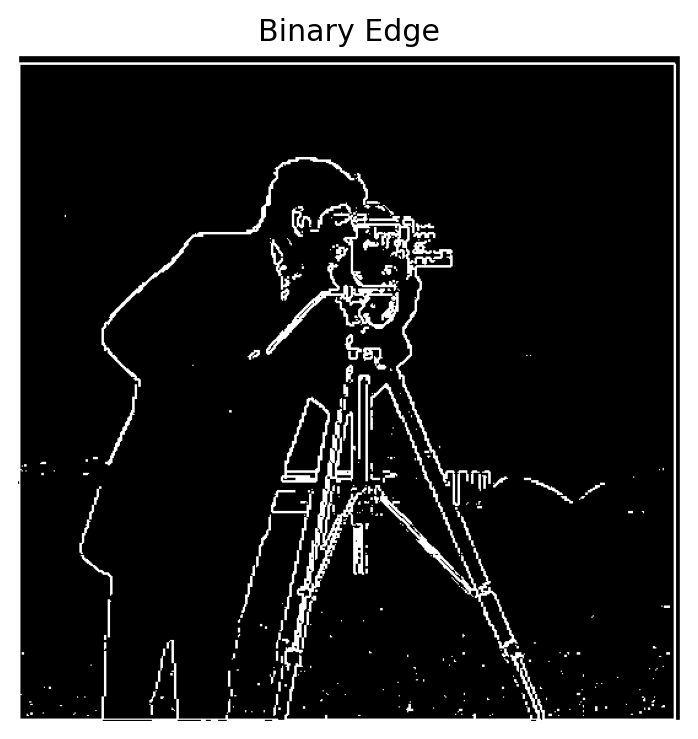
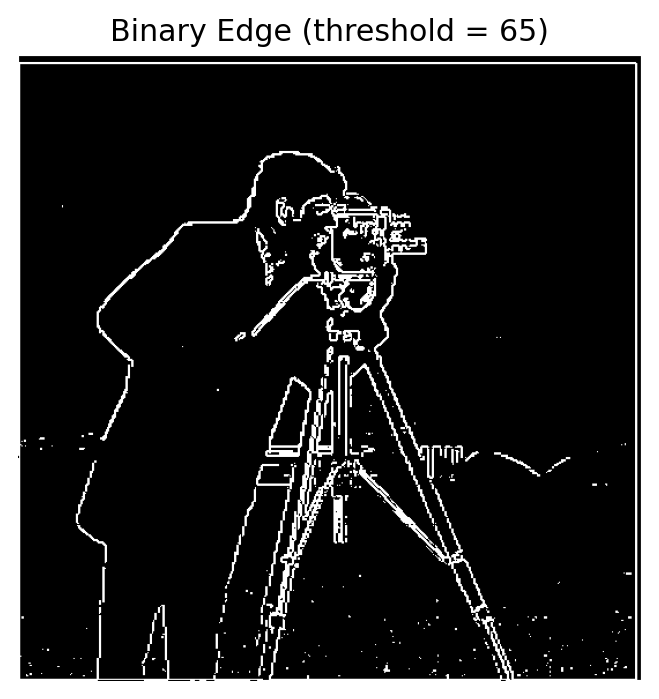
Complete finite difference and DoG writeup

diff --git a/projects/project2/index.html b/projects/project2/index.html
@@ -104,16 +104,49 @@ assert np.allclose(convolve_two_for_loops(image, kernel), reference)</code></pre
           <p>For boundary handling, the image is padded with zeros by half the kernel height and width. This keeps the output the same size as the input and matches <code>convolve2d(..., mode="same", boundary="fill", fillvalue=0)</code>.</p>
         </div>
         <h3>Part 1.2: Finite Difference Results</h3>
+        <div class="writeup-copy">
+          <p>The finite-difference filters <code>D_x</code> and <code>D_y</code> reveal horizontal and vertical intensity changes. I used a gradient-magnitude threshold of <strong>65</strong> for the binary edge image. This keeps the strongest object boundaries while removing much of the low-amplitude texture and noise; a lower threshold found more edges but also produced a noisier result.</p>
+          <pre><code>FINITE_DIFFERENCE_THRESHOLD = 65
+binary_edge = gradient_mag_camera &gt; FINITE_DIFFERENCE_THRESHOLD</code></pre>
+        </div>
         <div class="source-plate-grid">
           <figure><img src="partial_derivative_x.png" alt="Partial derivative in x of the cameraman image"><figcaption>Partial derivative in x</figcaption></figure>
           <figure><img src="partial_derivative_y.png" alt="Partial derivative in y of the cameraman image"><figcaption>Partial derivative in y</figcaption></figure>
           <figure><img src="gradient_magnitude.png" alt="Gradient magnitude of the cameraman image"><figcaption>Gradient magnitude</figcaption></figure>
-          <figure><img src="binary_edges.png" alt="Binarized gradient magnitude edge image"><figcaption>Binary edge image</figcaption></figure>
+          <figure><img src="binary_edges.png" alt="Binarized gradient magnitude edge image using threshold 65"><figcaption>Binary edge image (threshold = 65)</figcaption></figure>
         </div>
-        <h3>Part 1.3: Gaussian Filtering Results</h3>
+        <h3>Part 1.3: Derivative of Gaussian (DoG) Filter</h3>
+        <div class="writeup-copy">
+          <p>The finite-difference results contain noticeable noise, so I first smoothed the cameraman image with a 9 × 9 Gaussian filter created from <code>cv2.getGaussianKernel(9, 2)</code> and its transpose. After smoothing, I recomputed the derivatives and gradient magnitude.</p>
+          <p>For the smoothed gradient image, I used a threshold of <strong>20</strong>. Gaussian smoothing suppresses small variations, so a lower threshold recovers meaningful edges that would be missed by the threshold of 65 used on the noisier finite-difference result.</p>
+        </div>
         <div class="source-plate-grid">
           <figure><img src="gaussian_blurred.png" alt="Gaussian-blurred cameraman image"><figcaption>Gaussian-blurred image</figcaption></figure>
-          <figure><img src="gaussian_binary_edges.png" alt="Binary edge image after Gaussian filtering"><figcaption>Filtered binary edge image</figcaption></figure>
+          <figure><img src="gaussian_gradient_magnitude.png" alt="Gradient magnitude after Gaussian smoothing"><figcaption>Gradient magnitude after smoothing</figcaption></figure>
+          <figure><img src="gaussian_binary_edges.png" alt="Binary edge image after Gaussian smoothing using threshold 20"><figcaption>Smoothed binary edge image (threshold = 20)</figcaption></figure>
+        </div>
+        <div class="writeup-copy">
+          <p>Instead of smoothing and then applying two derivative convolutions, I also formed derivative-of-Gaussian filters by convolving the Gaussian with <code>D_x</code> and <code>D_y</code>. The resulting full-support filters are shown below.</p>
+          <pre><code>G_1d = cv2.getGaussianKernel(9, 2)
+G_2d = G_1d @ G_1d.T
+camera_blurred = convolve_two_for_loops(camera_image, G_2d)
+
+DoG_x = convolve2d(G_2d, Dx, mode="full", boundary="fill", fillvalue=0)
+DoG_y = convolve2d(G_2d, Dy, mode="full", boundary="fill", fillvalue=0)
+dog_dx = convolve_two_for_loops(camera_image, DoG_x)
+dog_dy = convolve_two_for_loops(camera_image, DoG_y)</code></pre>
+        </div>
+        <div class="source-plate-grid">
+          <figure><img src="dog_x_filter.png" alt="Derivative of Gaussian filter in x"><figcaption>DoG filter in x</figcaption></figure>
+          <figure><img src="dog_y_filter.png" alt="Derivative of Gaussian filter in y"><figcaption>DoG filter in y</figcaption></figure>
+        </div>
+        <div class="source-plate-grid">
+          <figure><img src="dog_gradient_magnitude.png" alt="Gradient magnitude from single-convolution DoG responses"><figcaption>DoG gradient magnitude</figcaption></figure>
+          <figure><img src="dog_binary_edges.png" alt="Binarized DoG gradient magnitude using threshold 20"><figcaption>DoG binary edge image (threshold = 20)</figcaption></figure>
+          <figure><img src="dog_verification.png" alt="Comparison of smoothed finite-difference and single-convolution DoG gradient magnitudes"><figcaption>Verification: smoothed gradient, DoG gradient, and their absolute difference</figcaption></figure>
+        </div>
+        <div class="writeup-copy">
+          <p>The Gaussian-smoothed gradient and the single-convolution DoG gradient agree away from the outer zero-padding boundary. The remaining differences are concentrated at the border because the two-step and one-step versions encounter the image boundary differently. In the interior, the DoG filters reproduce the same edge structure while requiring only one convolution per derivative direction.</p>
         </div>
       </section>
 

diff --git a/projects/project2/convolutions.py b/projects/project2/convolutions.py
@@ -11,16 +11,31 @@ import matplotlib.pyplot as plt
 from scipy.signal import convolve2d
 from PIL import Image
 import cv2
+from pathlib import Path
+
+PROJECT_DIR = Path(__file__).resolve().parent
 image = np.array(
     Image.open(
-        "/Users/revivedbonsai63/Desktop/CS 180/CS180_Website/projects/project2/color_to_greyscale.jpeg"
+        PROJECT_DIR / "color_to_greyscale.jpeg"
     ).convert("L")
 ).astype(float)
 camera_image = image = np.array(
     Image.open(
-       "/Users/revivedbonsai63/Desktop/CS 180/CS180_Website/projects/project2/cameraman.png"
+       PROJECT_DIR / "cameraman.png"
     ).convert("L")
 ).astype(float)
+
+
+def save_grayscale(image, title, filename, vmin=None, vmax=None):
+    fig, ax = plt.subplots(figsize=(5, 4))
+    ax.imshow(image, cmap="gray", vmin=vmin, vmax=vmax)
+    ax.set_title(title)
+    ax.axis("off")
+    fig.tight_layout()
+    fig.savefig(PROJECT_DIR / filename, dpi=180, bbox_inches="tight")
+    plt.close(fig)
+
+
 def convolve_four_for_loops(image, kernel):
     image_height, image_width = image.shape
     filter_height, filter_width = kernel.shape
@@ -105,48 +120,87 @@ for ax, result, title in zip(axes, comparison_images, comparison_titles):
     ax.set_title(title)
     ax.axis("off")
 plt.tight_layout()
-plt.savefig("/Users/revivedbonsai63/Desktop/CS 180/CS180_Website/projects/project2/convolution_comparison.png", dpi=180, bbox_inches="tight")
+plt.savefig(PROJECT_DIR / "convolution_comparison.png", dpi=180, bbox_inches="tight")
 plt.close(fig)
 
 print(np.allclose(blurred, scipy_blurred))
 dx_camera = convolve_two_for_loops(camera_image, Dx)
 dy_camera = convolve_two_for_loops(camera_image, Dy)
-plt.imshow(dx_image, cmap="gray")
-plt.title("Partial Derivative in X")
-plt.axis("off")
-plt.savefig("/Users/revivedbonsai63/Desktop/CS 180/CS180_Website/projects/project2/partial_derivative_x.png", dpi=180, bbox_inches="tight")
-plt.show()
 
-plt.imshow(dy_image, cmap="gray")
-plt.title("Partial Derivative in Y")
-plt.axis("off")
-plt.savefig("/Users/revivedbonsai63/Desktop/CS 180/CS180_Website/projects/project2/partial_derivative_y.png", dpi=180, bbox_inches="tight")
-plt.show()
-gradient_mag_camera = np.sqrt(dx_camera ** 2 + dy_camera**2) 
-plt.imshow(gradient_mag_camera, cmap="gray")
-plt.title("Gradient Magnitude")
-plt.axis("off")
-plt.savefig("/Users/revivedbonsai63/Desktop/CS 180/CS180_Website/projects/project2/gradient_magnitude.png", dpi=180, bbox_inches="tight")
-plt.show()
-binary_edge = gradient_mag_camera > 65
-plt.imshow(binary_edge, cmap="gray")
-plt.title("Binary Edge")
-plt.axis("off")
-plt.savefig("/Users/revivedbonsai63/Desktop/CS 180/CS180_Website/projects/project2/binary_edges.png", dpi=180, bbox_inches="tight")
-plt.show()
+FINITE_DIFFERENCE_THRESHOLD = 65
+GAUSSIAN_THRESHOLD = 20
+
+save_grayscale(dx_camera, "Partial Derivative in X", "partial_derivative_x.png")
+save_grayscale(dy_camera, "Partial Derivative in Y", "partial_derivative_y.png")
+
+gradient_mag_camera = np.hypot(dx_camera, dy_camera)
+save_grayscale(gradient_mag_camera, "Gradient Magnitude", "gradient_magnitude.png")
+
+binary_edge = gradient_mag_camera > FINITE_DIFFERENCE_THRESHOLD
+save_grayscale(binary_edge, "Binary Edge (threshold = 65)", "binary_edges.png", vmin=0, vmax=1)
+
 G_1d = cv2.getGaussianKernel(9, 2)
-G_2d = G_1d @  G_1d.T
+G_2d = G_1d @ G_1d.T
 camera_blurred = convolve_two_for_loops(camera_image, G_2d)
-plt.imshow(camera_blurred, cmap="gray")
-plt.title("Blurred")
-plt.axis("off")
-plt.savefig("/Users/revivedbonsai63/Desktop/CS 180/CS180_Website/projects/project2/gaussian_blurred.png", dpi=180, bbox_inches="tight")
-plt.show()
+save_grayscale(camera_blurred, "Gaussian-blurred Cameraman", "gaussian_blurred.png")
+
+# Apply Dx and Dy after Gaussian smoothing, as in the finite-difference method.
 dx_G_camera = convolve_two_for_loops(camera_blurred, Dx)
 dy_G_camera = convolve_two_for_loops(camera_blurred, Dy)
-blurred_binary_edge = np.sqrt(dx_G_camera ** 2 + dy_G_camera**2) > 20
-plt.imshow(blurred_binary_edge, cmap="gray")
-plt.title("Blurred_binary edge")
-plt.axis("off")
-plt.savefig("/Users/revivedbonsai63/Desktop/CS 180/CS180_Website/projects/project2/gaussian_binary_edges.png", dpi=180, bbox_inches="tight")
-plt.show()
+gaussian_gradient_mag = np.hypot(dx_G_camera, dy_G_camera)
+gaussian_binary_edge = gaussian_gradient_mag > GAUSSIAN_THRESHOLD
+save_grayscale(
+    gaussian_gradient_mag,
+    "Gradient Magnitude after Gaussian Smoothing",
+    "gaussian_gradient_magnitude.png",
+)
+save_grayscale(
+    gaussian_binary_edge,
+    "Gaussian-smoothed Binary Edge (threshold = 20)",
+    "gaussian_binary_edges.png",
+    vmin=0,
+    vmax=1,
+)
+
+# Build full derivative-of-Gaussian filters and apply each with one convolution.
+# The full mode preserves the complete 9x9 * 1x3 and 9x9 * 3x1 supports.
+DoG_x = convolve2d(G_2d, Dx, mode="full", boundary="fill", fillvalue=0)
+DoG_y = convolve2d(G_2d, Dy, mode="full", boundary="fill", fillvalue=0)
+save_grayscale(DoG_x, "Derivative of Gaussian: DoG x", "dog_x_filter.png")
+save_grayscale(DoG_y, "Derivative of Gaussian: DoG y", "dog_y_filter.png")
+
+dog_dx_camera = convolve_two_for_loops(camera_image, DoG_x)
+dog_dy_camera = convolve_two_for_loops(camera_image, DoG_y)
+dog_gradient_mag = np.hypot(dog_dx_camera, dog_dy_camera)
+dog_binary_edge = dog_gradient_mag > GAUSSIAN_THRESHOLD
+save_grayscale(dog_gradient_mag, "DoG Gradient Magnitude", "dog_gradient_magnitude.png")
+save_grayscale(
+    dog_binary_edge,
+    "DoG Binary Edge (threshold = 20)",
+    "dog_binary_edges.png",
+    vmin=0,
+    vmax=1,
+)
+
+dog_difference = np.abs(gaussian_gradient_mag - dog_gradient_mag)
+fig, axes = plt.subplots(1, 3, figsize=(14, 4))
+comparison_images = [gaussian_gradient_mag, dog_gradient_mag, dog_difference]
+comparison_titles = [
+    "Gaussian then Dx/Dy",
+    "Single-convolution DoG",
+    "Absolute difference",
+]
+for ax, result, title in zip(axes, comparison_images, comparison_titles):
+    ax.imshow(result, cmap="gray")
+    ax.set_title(title)
+    ax.axis("off")
+plt.tight_layout()
+plt.savefig(PROJECT_DIR / "dog_verification.png", dpi=180, bbox_inches="tight")
+plt.close(fig)
+
+print("Finite-difference threshold:", FINITE_DIFFERENCE_THRESHOLD)
+print("Gaussian/DoG threshold:", GAUSSIAN_THRESHOLD)
+print("Maximum Gaussian-vs-DoG gradient difference:", dog_difference.max())
+print("DoG matches the smoothed gradient away from the zero-padding boundary:", np.allclose(
+    gaussian_gradient_mag[5:-5, 5:-5], dog_gradient_mag[5:-5, 5:-5], atol=1e-6
+))
